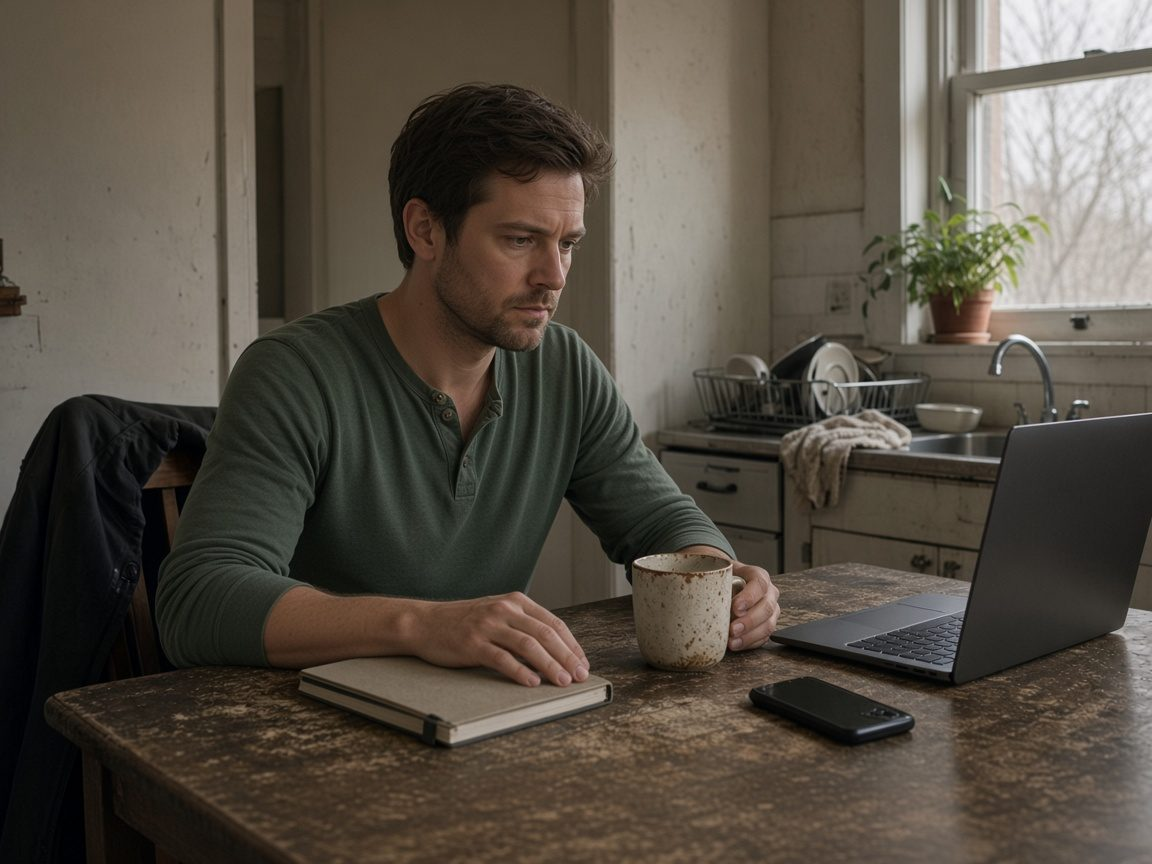
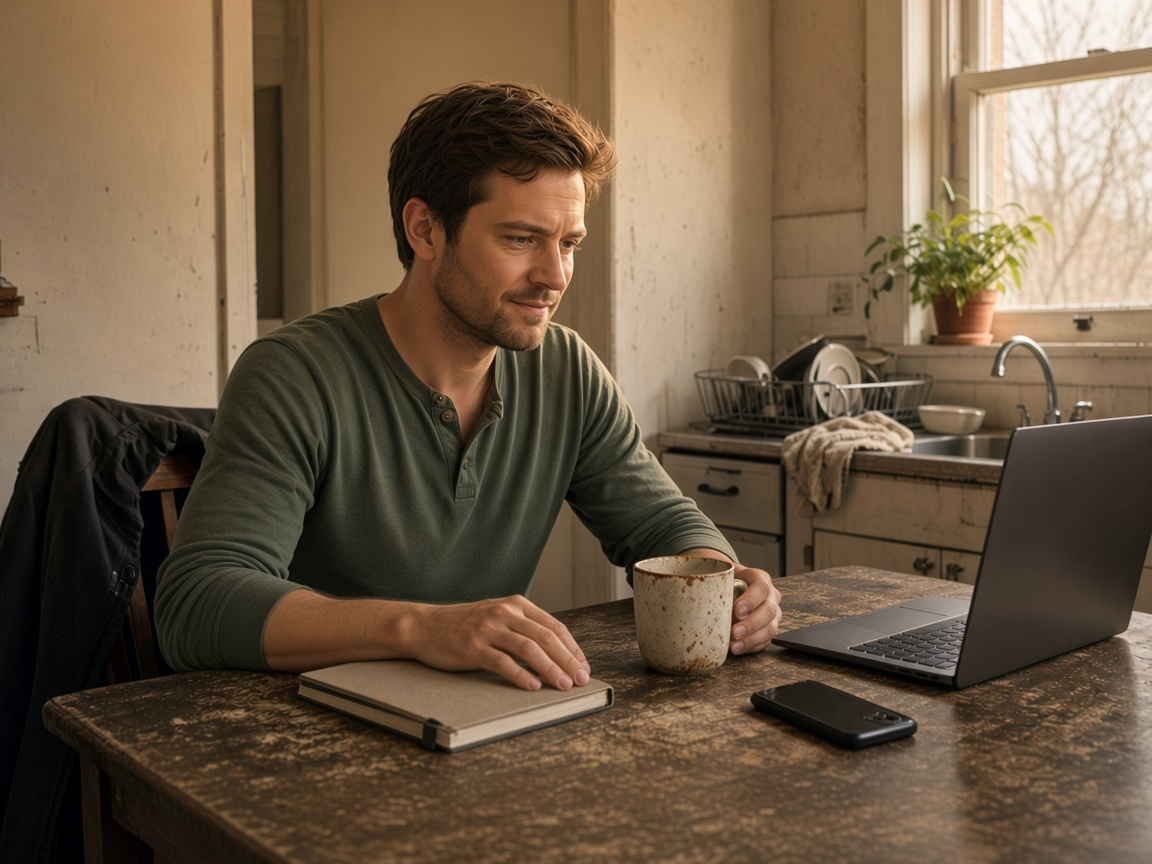
Use a calmer expression in the hours card photo.

diff --git a/index.html b/index.html
@@ -112,7 +112,7 @@
 
           <article class="entry card" id="hours" data-section="hours">
             <figure class="card-photo">
-              <img src="images/shift-start.jpg" width="1152" height="864" alt="A man checks a laptop and phone at his kitchen table.">
+              <img src="images/shift-start.jpg" width="1024" height="768" alt="A man checks a laptop and phone at his kitchen table.">
             </figure>
             <p class="step"><span>03</span> The hours</p>
             <h3>What hours would I work?</h3>
